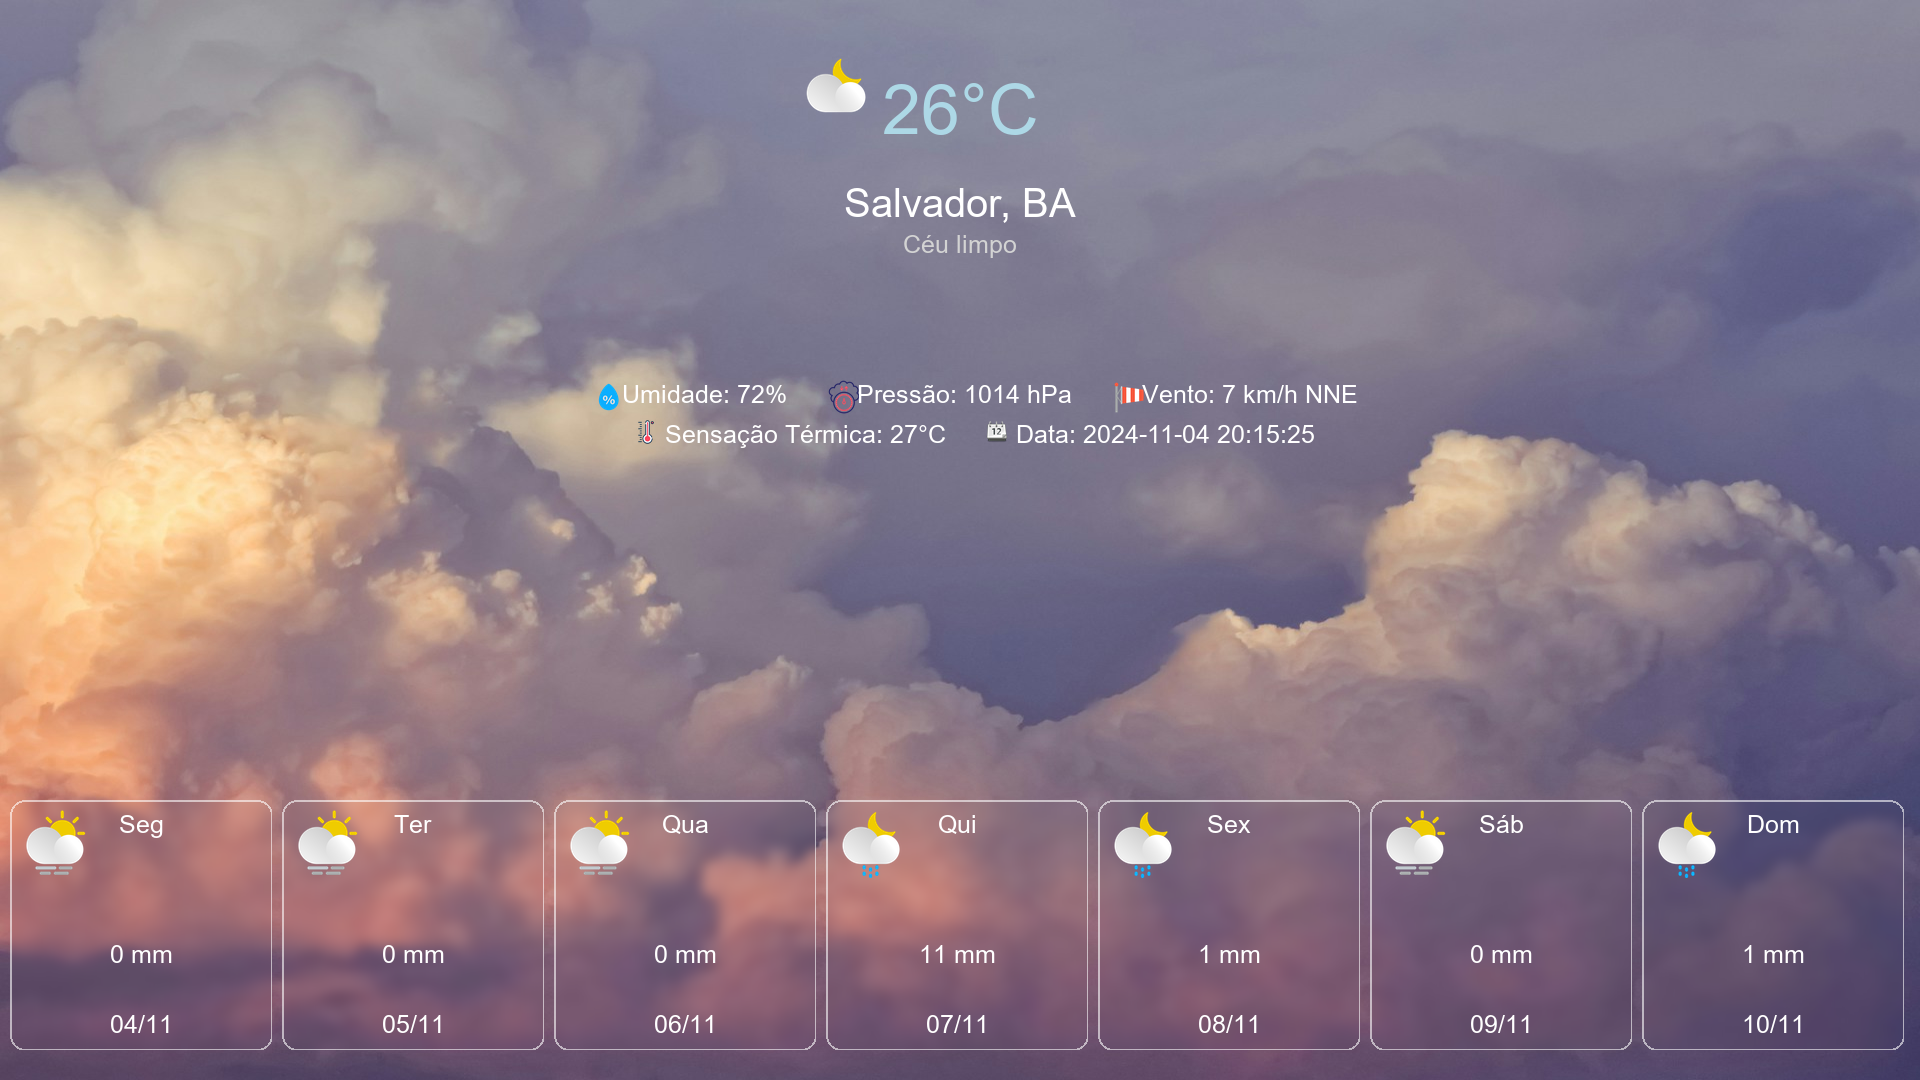
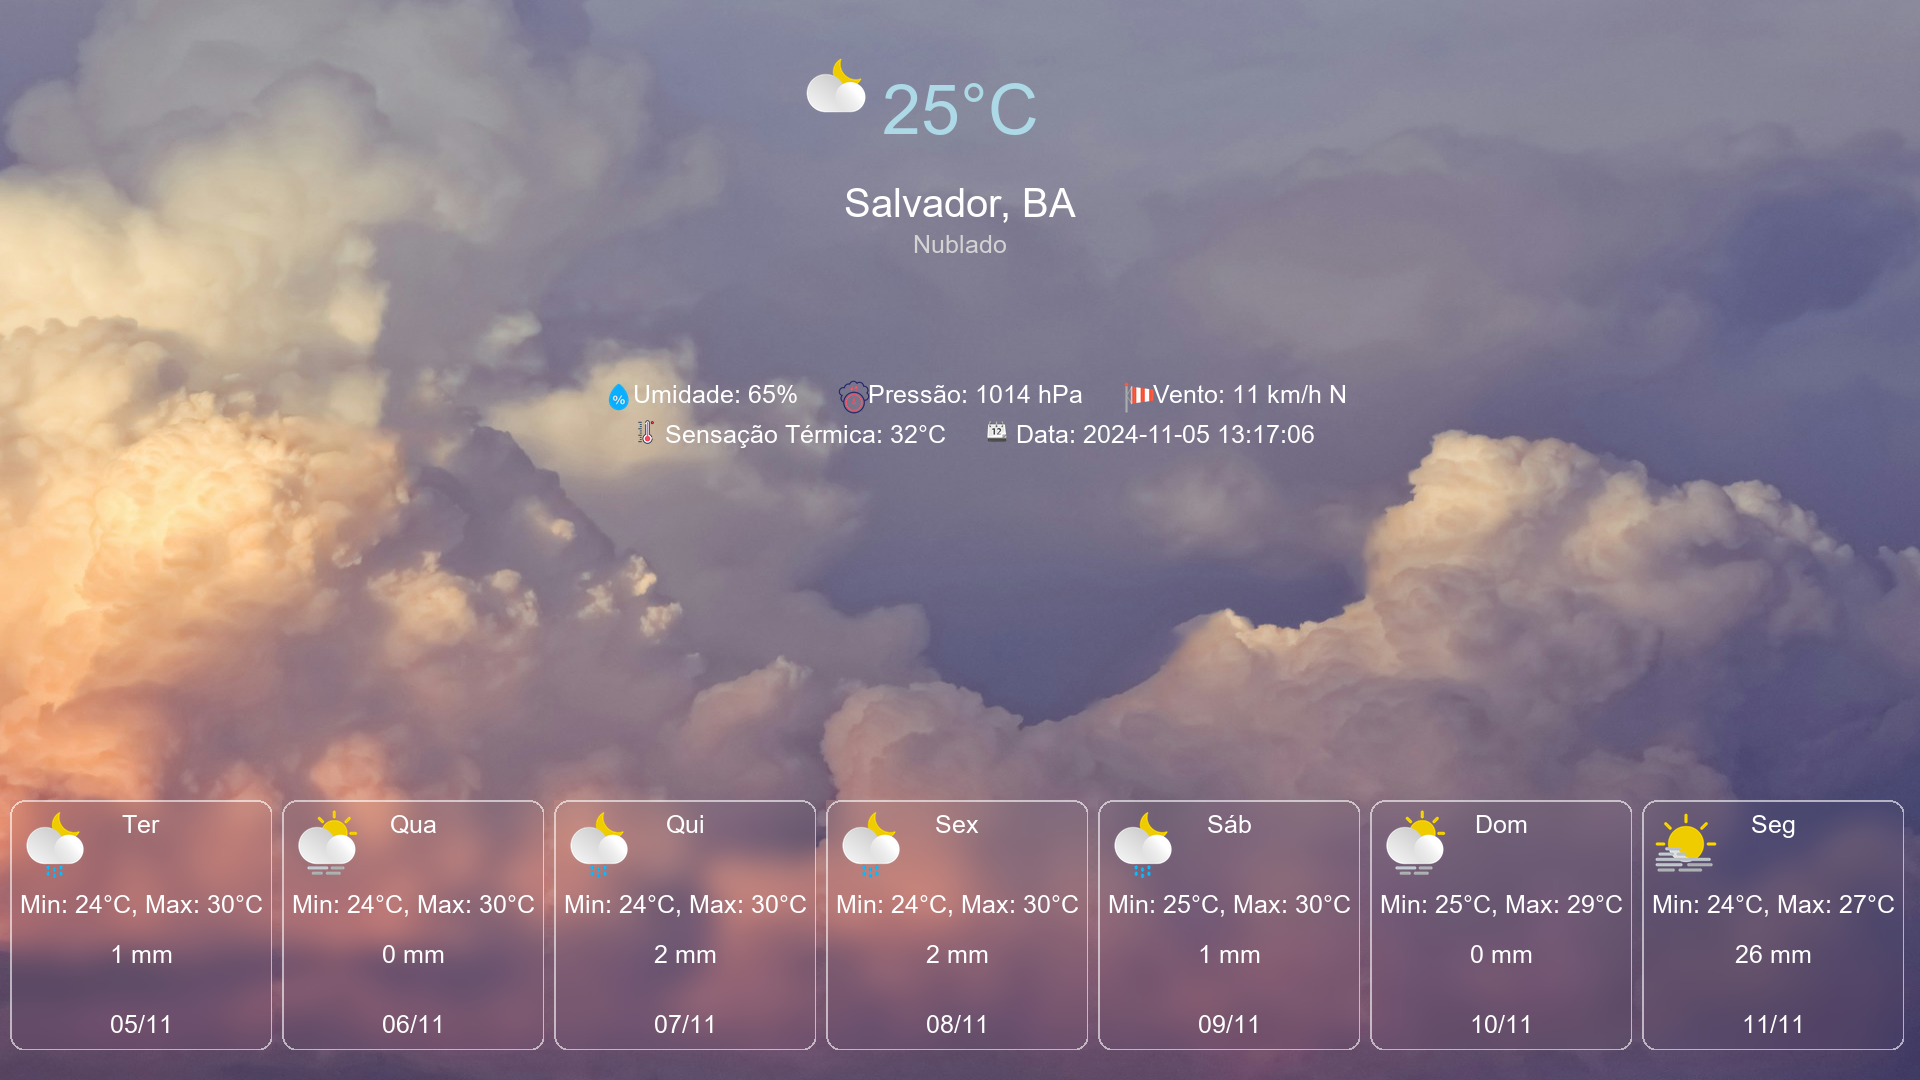
Atualização do código, inserção de temperatura max e min aos cards

diff --git a/generate_image.py b/generate_image.py
@@ -159,7 +159,7 @@ def generate_weather_image(data, daily_forecast):
         
         # Recorta o fundo do card e aplica o desfoque
         card_background = img.crop((card_x, y_offset, card_x + card_width, y_offset + card_height))
-        blurred_background = card_background.filter(ImageFilter.GaussianBlur(radius=5))
+        blurred_background = card_background.filter(ImageFilter.GaussianBlur(radius=13))
 
         # Cria uma camada transparente com o fundo desfocado
         card_layer = Image.new("RGBA", (card_width, card_height), (0, 0, 0, 0))
@@ -183,6 +183,14 @@ def generate_weather_image(data, daily_forecast):
 
         # Insere os ícones e textos no card
         img.paste(icon, (card_x + 10, y_offset + 10), icon)
+
+        # Exibe as temperaturas mínima e máxima
+        min_temp = day['temperature']['min']
+        max_temp = day['temperature']['max']
+        temp_text = f"Min: {min_temp}°C, Max: {max_temp}°C"
+        temp_bbox = d.textbbox((0, 0), temp_text, font=font_small)
+        temp_x = center_x - (temp_bbox[2] - temp_bbox[0]) // 2
+        d.text((temp_x, y_offset + 90), temp_text, fill="white", font=font_small)    
         
         
         # Centraliza o dia da semana
@@ -203,6 +211,8 @@ def generate_weather_image(data, daily_forecast):
         precip_x = center_x - (precip_bbox[2] - precip_bbox[0]) // 2
         d.text((precip_x, text_y_offset + 100), precip_text, fill="white", font=font_small)
         #d.text((card_x + 50, y_offset + 100), condition, fill="white", font=font_small)
+
+        
 
     img.save("weather_image.png")
 

diff --git a/README.md b/README.md
@@ -1,1 +1,22 @@
-The project
+# Weather App
+
+This is a weather application project developed in Python, which uses the Clima Tempo API to provide real-time weather information. The goal of the app is to allow users to obtain weather forecasts quickly and easily, using a user-friendly and intuitive interface.
+
+## Technologies Used
+
+- **Python**: The main programming language for the application development.
+- **Clima Tempo API**: Used to fetch real-time weather data.
+- **PNG**: Icons and images for the user interface.
+
+## Features
+
+- Check the weather forecast.
+- View icons representing the current weather conditions.
+
+## Project Structure
+
+## How to Run the Project
+
+1. Clone this repository:
+   ```bash
+   git clone https://github.com/brncsar/pyclimatempo.git
